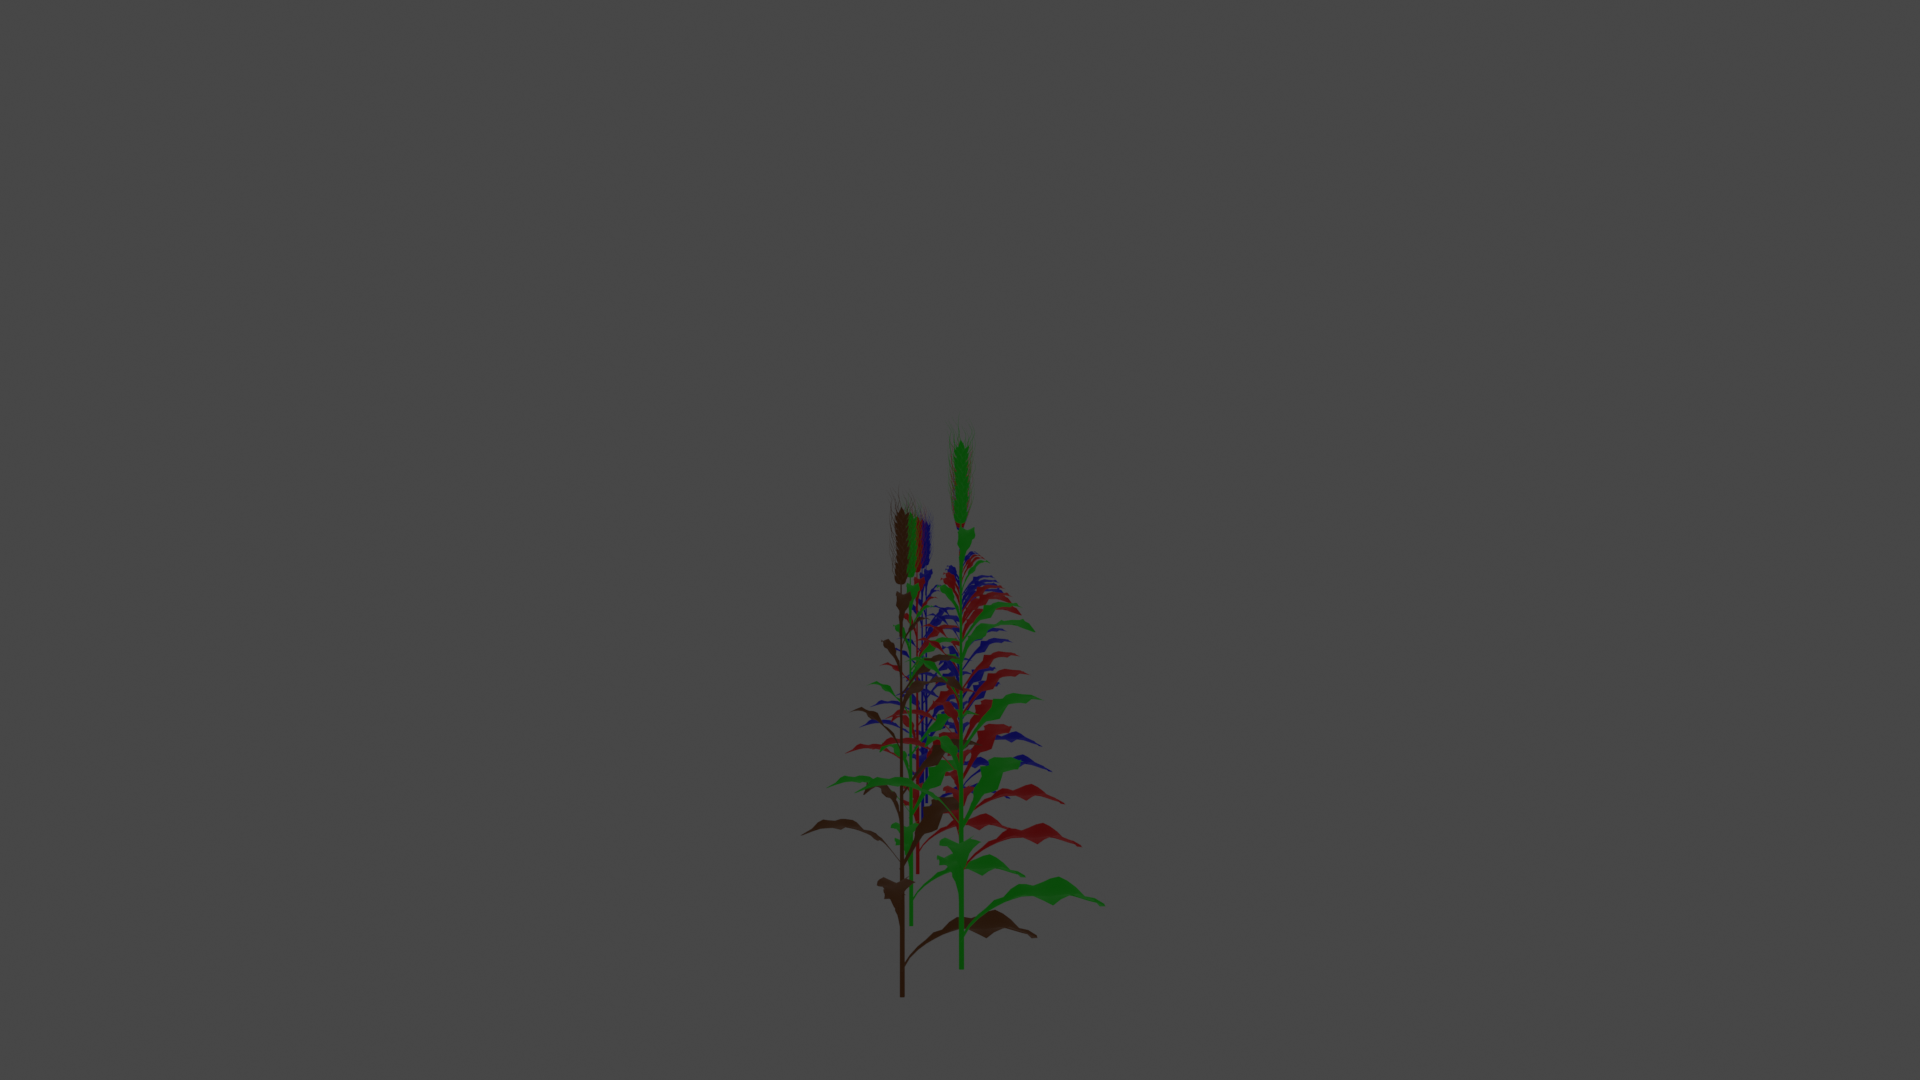
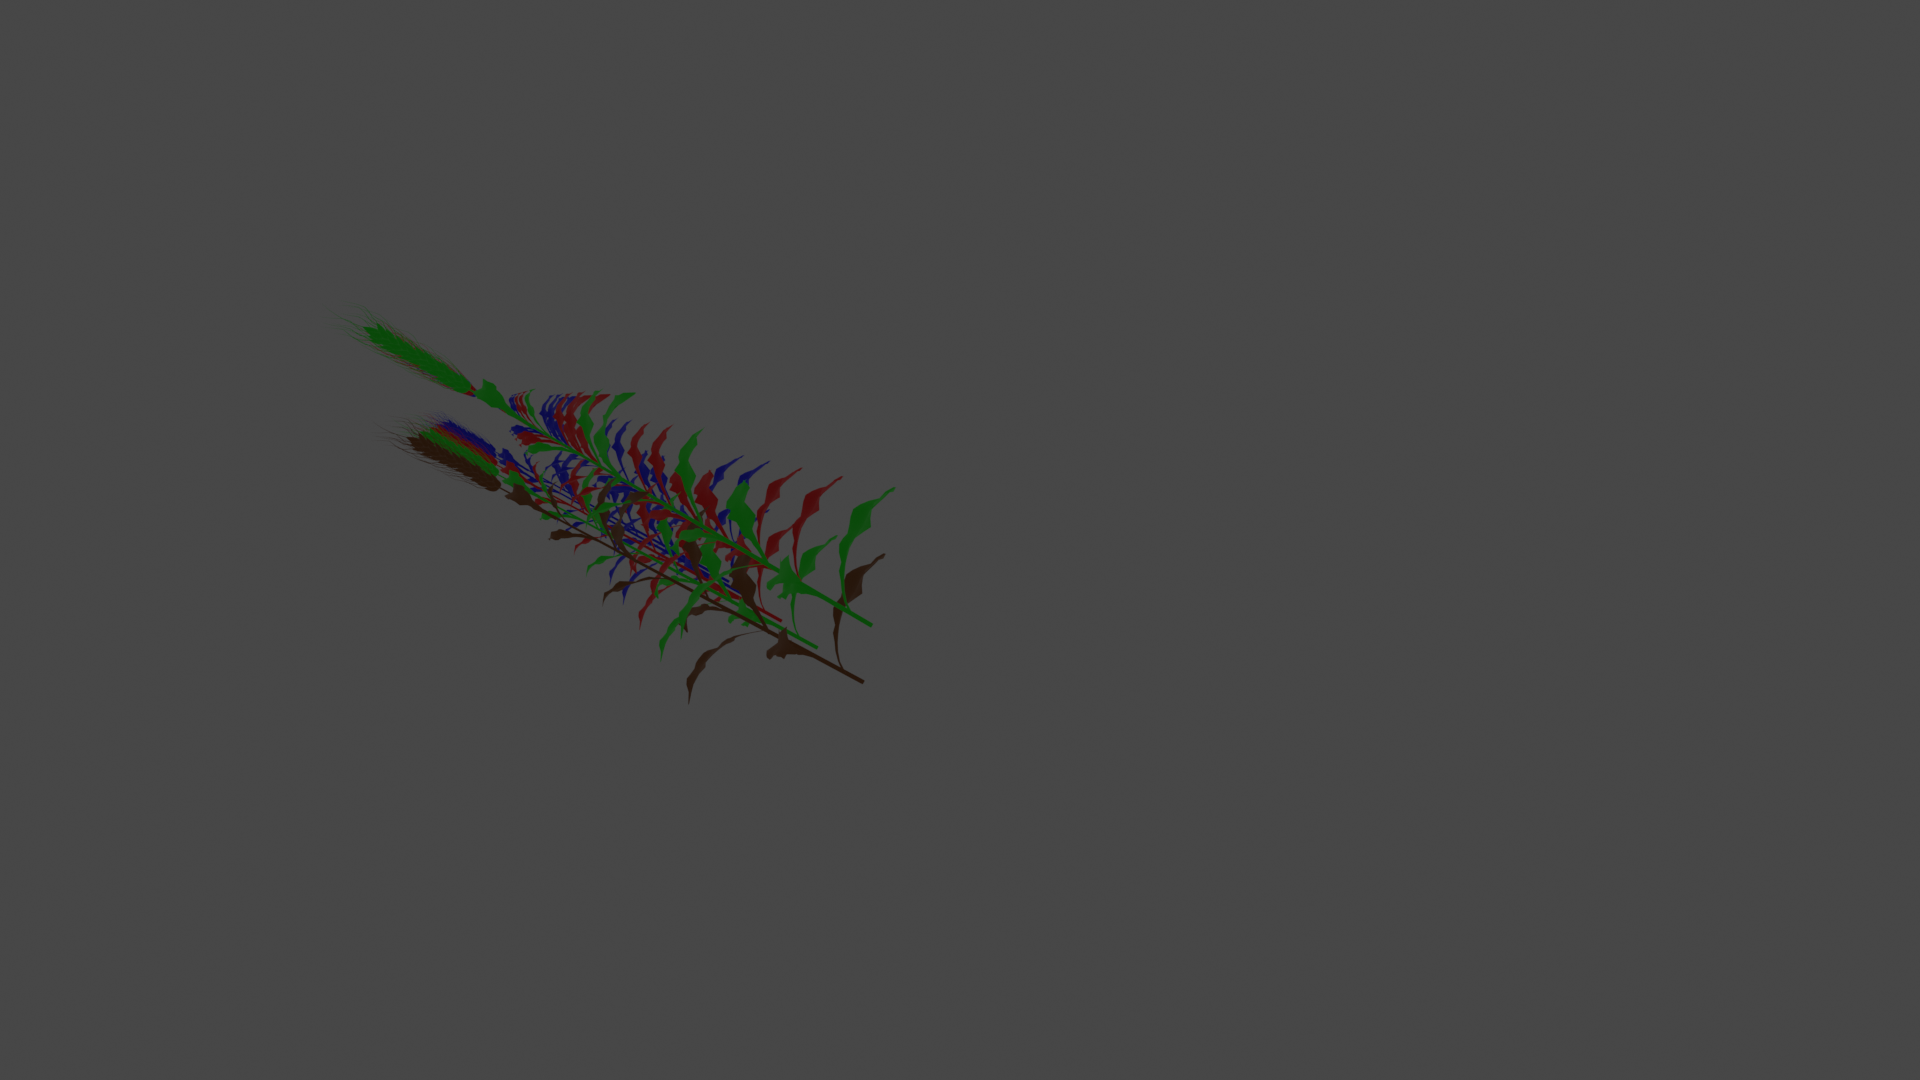
feat: Add camera angle setting

Changed region(s): [[0.1875, 0.3056, 0.5625, 0.8861]]

diff --git a/src/controllers/camera_controller.py b/src/controllers/camera_controller.py
@@ -2,9 +2,21 @@ import bpy
 import math
 
 class CameraController:
-    """
-    Setup default camera angle and link it to a collection.
-    """
+    # """
+    # Setup default camera angle and link it to a collection.
+    # """
+    # def setup_camera(self, cam="camera_one", camera_location=(10,5,0),
+    #                  camera_rotation=(1.57057,0.00174533,1.57057), collection_name="Collection"):
+    #     bpy.ops.object.camera_add(enter_editmode=False, align="VIEW",
+    #                               location=camera_location, rotation=camera_rotation)
+    #     print("getting to render")
+
+    #     bpy.data.objects["Camera"].name = str(cam)
+    #     bpy.data.objects[cam].data.lens_unit = "FOV"
+    #     bpy.data.objects[cam].data.angle = math.radians(100) # distance of camera from the scene
+    #     collection = bpy.data.collections.new(name=collection_name)
+    #     bpy.context.scene.collection.children.link(collection)     # link to the collection containing the crops
+    #     return collection
     def setup_camera(self, cam="camera_one", camera_location=(10,5,0),
                      camera_rotation=(1.57057,0.00174533,1.57057), collection_name="Collection"):
         bpy.ops.object.camera_add(enter_editmode=False, align="VIEW",

diff --git a/src/launch.py b/src/launch.py
@@ -27,10 +27,12 @@ class TyperLaunchAPI:
                 ob.select_set(True)
         bpy.ops.object.delete()
         collection = "Collection"
+        
         cameracon = CameraController()
         cropcon = CropController(config["crop"], collection)
         scenerender = SceneRenderer(config["outfile"][0], collection)
-        cameracon.setup_camera("camera_one", (10,0,0), (1.57057,0.00174533,1.57057), "Collection")
+        cameracon.setup_camera("camera_one", tuple(config["camera"]["location"]), tuple(config["camera"]["rotation"]), "Collection")
+        
         cropcon.setup_crops()
         collection1 = bpy.data.collections.get("Collection")
         dupe = collection1.objects.get("stage11.1")
